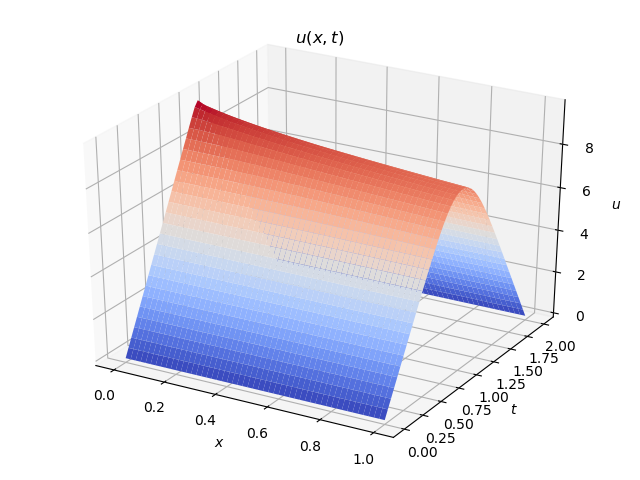
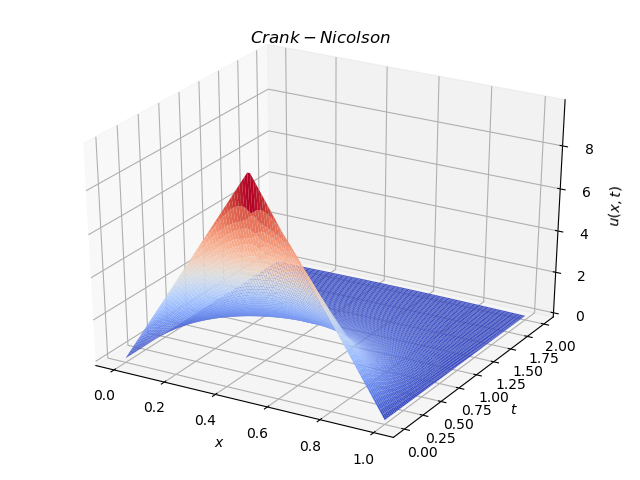
finished cp2

diff --git a/math445/cp2/c2p1.py b/math445/cp2/c2p1.py
@@ -1,64 +1,233 @@
 import numpy as np
 import matplotlib.pyplot as plt
 from mpl_toolkits import mplot3d
+from scipy import integrate
+from math import pi, sin, exp, cos
+import sys
+
+def cn_heat():
+	# parameters
+	N = 100 #number of grid points
+	L = float(1) #size of grid
+	nsteps = N #number of time steps
+	dt = 2.0/nsteps #time step
+	dx = L/(N-1) #grid spacing
+
+	r = (0.25 * dt )/ dx**2
+
+	# initialize matrices A, B and b array
+	A = np.zeros((N-2,N-2))
+	B = np.zeros((N-2,N-2))
+
+	#define matrices A, B
+	for i in range(N-2):
+	    if i==0:
+	        A[i,:] = [2+2*r if j==0 else (-r) if j==1 else 0 for j in range(N-2)]
+	        B[i,:] = [2-2*r if j==0 else r if j==1 else 0 for j in range(N-2)]
+	    elif i==N-3:
+	        A[i,:] = [-r if j==N-4 else 2+2*r if j==N-3 else 0 for j in range(N-2)]
+	        B[i,:] = [r if j==N-4 else 2-2*r if j==N-3 else 0 for j in range(N-2)]
+	    else:
+	        A[i,:] = [-r if j==i-1 or j==i+1 else 2+2*r if j==i else 0 for j in range(N-2)]
+	        B[i,:] = [r if j==i-1 or j==i+1 else 2-2*r if j==i else 0 for j in range(N-2)]
+
+	#initialize grid
+	x = np.linspace(0,1,N)
+	t = np.linspace(0,2,nsteps)
+	#initial conditions (t=0)
+	u = np.asarray([20*xx if xx<=0.5 else 20*(1-xx) for xx in x])
+	#evaluate right hand side at t=0
+	rhs = B.dot(u[1:-1])
+	# solution matrix
+	sol = np.zeros((nsteps, N))
+	sol[0, :] = u
+
+	# calculate solution for each time step
+	for j in range(1, nsteps):
+		sol[j, 1:-1] = np.linalg.solve(A,rhs)
+
+		# update rhs
+		rhs = B.dot(sol[j, 1:-1])
+
+	# plotting
+	fig = plt.figure()
+	ax = plt.axes(projection='3d')
+	x, t = np.meshgrid(x, t)
+
+	ax.plot_surface(x, t, sol, rstride=1, cstride=1,
+	                cmap='coolwarm')
+	ax.set_title('$Crank-Nicolson$')
+	ax.set_xlabel("$x$")
+	ax.set_ylabel("$t$")
+	ax.set_zlabel("$u(x, t)$")
+	plt.tight_layout()
+
+	fig.savefig("cn_heat.png")
+
+	return sol
+
+def phi(x):
+	if x < 0.5:
+		return 20*x
+	else:
+		return 20*(1-x)
+
+def fs_heat():
+	# parameters
+	N = 100
+	max_iter = 200
+
+	# grid
+	x = np.linspace(0,1, N)
+	t = np.linspace(0,2, N)
+	u = np.zeros(shape=(N, N))
+
+	# fourier series solution
+	for i in range(N):
+		for j in range(N):
+			for k in range(1, max_iter):
+				integral = integrate.quad(lambda x: phi(x)*sin(pi*k*x), 0, 1)[0]
+				u[i, j] += 2 * (integral) * exp(-0.25*pow(pi*k, 2)*t[i]) * sin(pi*k*x[j])
+
+	# difference between crank nicolson and fourier series
+	diff = abs(u-cn_heat())
+
+	# plotting
+	fig = plt.figure()
+	ax = plt.axes(projection='3d')
+	x, t = np.meshgrid(x, t)
+
+	ax.plot_surface(x, t, diff, rstride=1, cstride=1,
+	                cmap='coolwarm')
+	ax.set_title('Difference for Heat Equation')
+	ax.set_xlabel("$x$")
+	ax.set_ylabel("$t$")
+	ax.set_zlabel("Difference")
+	plt.tight_layout()
+
+	fig.savefig("diff_heat.png")
+
+def implicit_wave():
+	# define parameters
+	tau = 0.01
+	h = 0.01
+	m2 = pow(tau, 2) / pow(h, 2)
+	f = lambda x: x*(1-x)
+	M = int(1/h)
+	N = int(2/tau)
+
+	# define intervals
+	x = np.linspace(0, 1, M+1)
+	t = np.linspace(0, 2, N+1)
+
+	# define matrix A
+	A = np.zeros(shape=(M-1, M-1))
+	for i in range(M-1):
+		if i == 0:
+			A[i, 0] = 2*(1+m2)
+			A[i, 1] = -m2
+		elif i == M-2:
+			A[i, M-3] = -m2
+			A[i, M-2] = 2*(1+m2)
+		else:
+			A[i, i-1] = -m2
+			A[i, i] = 2*(1+m2)
+			A[i, i+1] = -m2
+
+	# define u with boundary conditions
+	u = np.zeros(shape=(M+1, N+1))
+
+	# define initial conditions
+	u[1:-1, 0] = [f(i) for i in x[1:-1]]
+	utt = np.asarray(
+		[(f(i*h)-2*f((i-1)*h)+f((i-2)*h))/pow(h,2) for i in range(M-1)])
+	u[1:-1, 1] = u[1:-1, 0] + (pow(tau, 2)/2)*utt
+
+	# compute rhs for first iteration
+	rhs = 4*u[1:-1, 1] - A.dot(u[1:-1, 0])
+
+	# solve
+	for j in range(1, N):
+		rhs = 4*u[1:-1, j] - A.dot(u[1:-1, j-1])
+
+		u[1:-1, j+1] = np.linalg.solve(A, rhs)
 
 
-# Global parameters
+	# plotting
+	fig = plt.figure()
+	ax = plt.axes(projection='3d')
+	x, t = np.meshgrid(x, t)
 
-N = 51 #number of grid points
-dt = 5.e-4 #time step
-L = float(1) #size of grid
-nsteps = 620 #number of time steps
-dx = L/(N-1) #grid spacing
-nplot = 20 #number of timesteps before plotting
+	ax.plot_surface(x, t, u.transpose(), rstride=1, cstride=1,
+	                cmap='coolwarm')
+	ax.set_title('Implicit Method for Wave Equation')
+	ax.set_xlabel("$x$")
+	ax.set_ylabel("$t$")
+	ax.set_zlabel("$u(x, t)$")
+	plt.tight_layout()
 
-r = (0.25 * dt )/ dx**2
+	fig.savefig("implicit_wave.png")
 
-# initialize matrices A, B and b array
-A = np.zeros((N-2,N-2))
-B = np.zeros((N-2,N-2))
+	return u[:-1, :-1]
 
-#define matrices A, B
-for i in range(N-2):
-    if i==0:
-        A[i,:] = [2+2*r if j==0 else (-r) if j==1 else 0 for j in range(N-2)]
-        B[i,:] = [2-2*r if j==0 else r if j==1 else 0 for j in range(N-2)]
-    elif i==N-3:
-        A[i,:] = [-r if j==N-4 else 2+2*r if j==N-3 else 0 for j in range(N-2)]
-        B[i,:] = [r if j==N-4 else 2-2*r if j==N-3 else 0 for j in range(N-2)]
-    else:
-        A[i,:] = [-r if j==i-1 or j==i+1 else 2+2*r if j==i else 0 for j in range(N-2)]
-        B[i,:] = [r if j==i-1 or j==i+1 else 2-2*r if j==i else 0 for j in range(N-2)]
+def fs_wave():
+	# parameters
+	M = 100
+	N = 200
+	max_iter = 100
 
-#initialize grid
-x = np.linspace(0,1,N)
-t = np.linspace(0,2,N)
-#initial conditions (t=0)
-u = np.asarray([20*xx if xx<=0.5 else 20*(1-xx) for xx in x])
-#evaluate right hand side at t=0
-rhs = B.dot(u[1:-1])
+	# domain and solution
+	x = np.linspace(0,1, M)
+	t = np.linspace(0,2, N)
+	u = np.zeros(shape=(M, N))
 
-# solution matrix
-sol = np.zeros((N, N))
+	# Fourier Series solution
+	Ak = lambda k: 2*integrate.quad(lambda x: x*(1-x)*sin(pi*k*x), 0, 1)[0]
 
-# calculate solution for each time step
-for j in range(N):
-	sol[1:-1, j] = np.linalg.solve(A,rhs)
+	for i in range(M):
+		for j in range(N):
+			for k in range(1, max_iter):
+				u[i, j] += Ak(k)*cos(pi*k*t[j])*sin(pi*k*x[i])
 
-	# update rhs
-	rhs = B.dot(sol[1:-1, j])
+	# get implicit solution
+	impl = implicit_wave()
 
-# plotting
-fig = plt.figure()
-ax = plt.axes(projection='3d')
-x, t = np.meshgrid(x, t)
+	# difference
+	diff = abs(u-impl)
 
-ax.plot_surface(x, t, sol, rstride=1, cstride=1,
-                cmap='coolwarm')
-ax.set_title('$u(x, t)$')
-ax.set_xlabel("$x$")
-ax.set_ylabel("$t$")
-ax.set_zlabel("$u$")
-plt.tight_layout()
+	# plotting difference
+	fig = plt.figure()
+	ax = plt.axes(projection='3d')
+	x, t = np.meshgrid(x, t)
 
-fig.savefig("cn_heat.png")
+	ax.plot_surface(x, t, diff.transpose(), rstride=1, cstride=1,
+	                cmap='coolwarm')
+	ax.set_title('Difference for Wave Equation')
+	ax.set_xlabel("$x$")
+	ax.set_ylabel("$t$")
+	ax.set_zlabel("Difference")
+	plt.tight_layout()
+
+	fig.savefig("diff_wave.png")
+
+	# plotting fourier series solution
+	fig = plt.figure()
+	ax = plt.axes(projection='3d')
+
+	ax.plot_surface(x, t, u.transpose(), rstride=1, cstride=1,
+	                cmap='coolwarm')
+	ax.set_title('Wave Equation Fourier Series')
+	ax.set_xlabel("$x$")
+	ax.set_ylabel("$t$")
+	ax.set_zlabel("$u(x,t)$")
+	plt.tight_layout()
+
+	fig.savefig("fs_wave.png")
+
+
+def main():
+	fs_wave()
+
+if __name__ == "__main__":
+	main()
+
